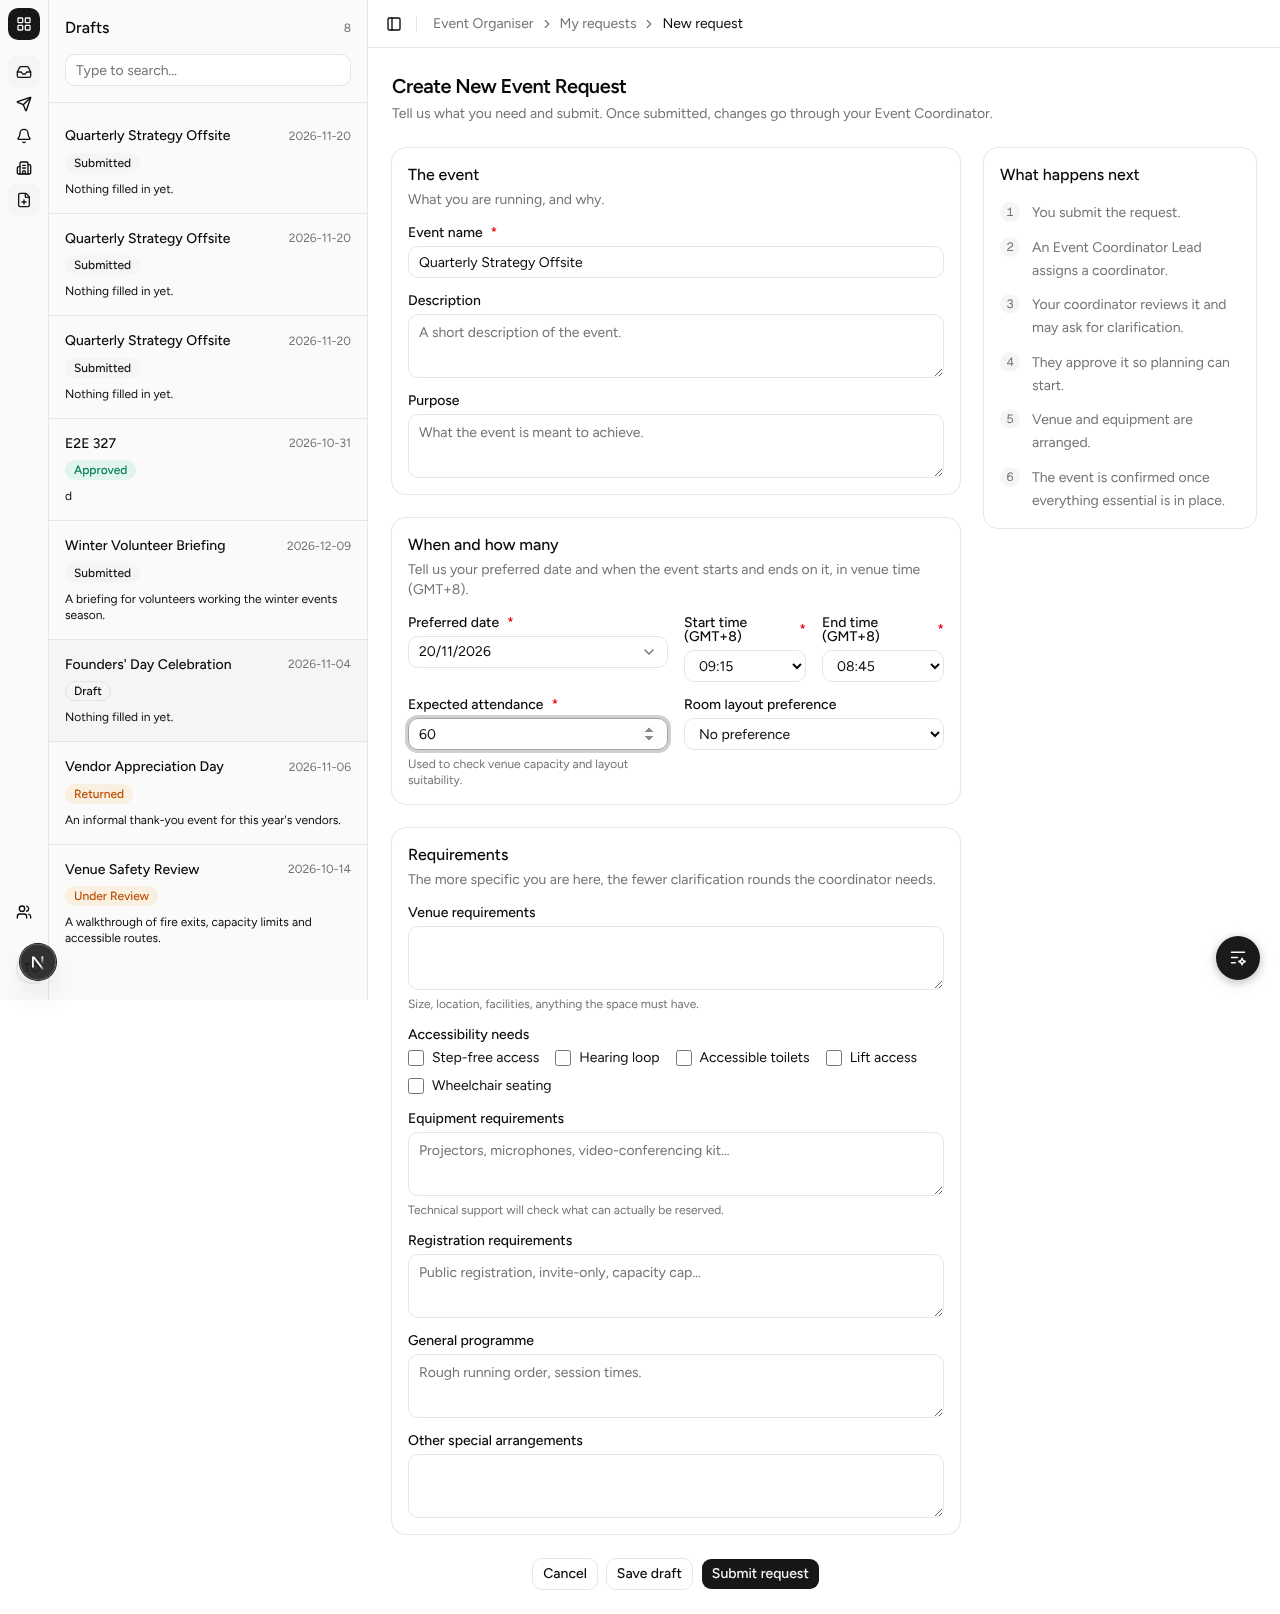
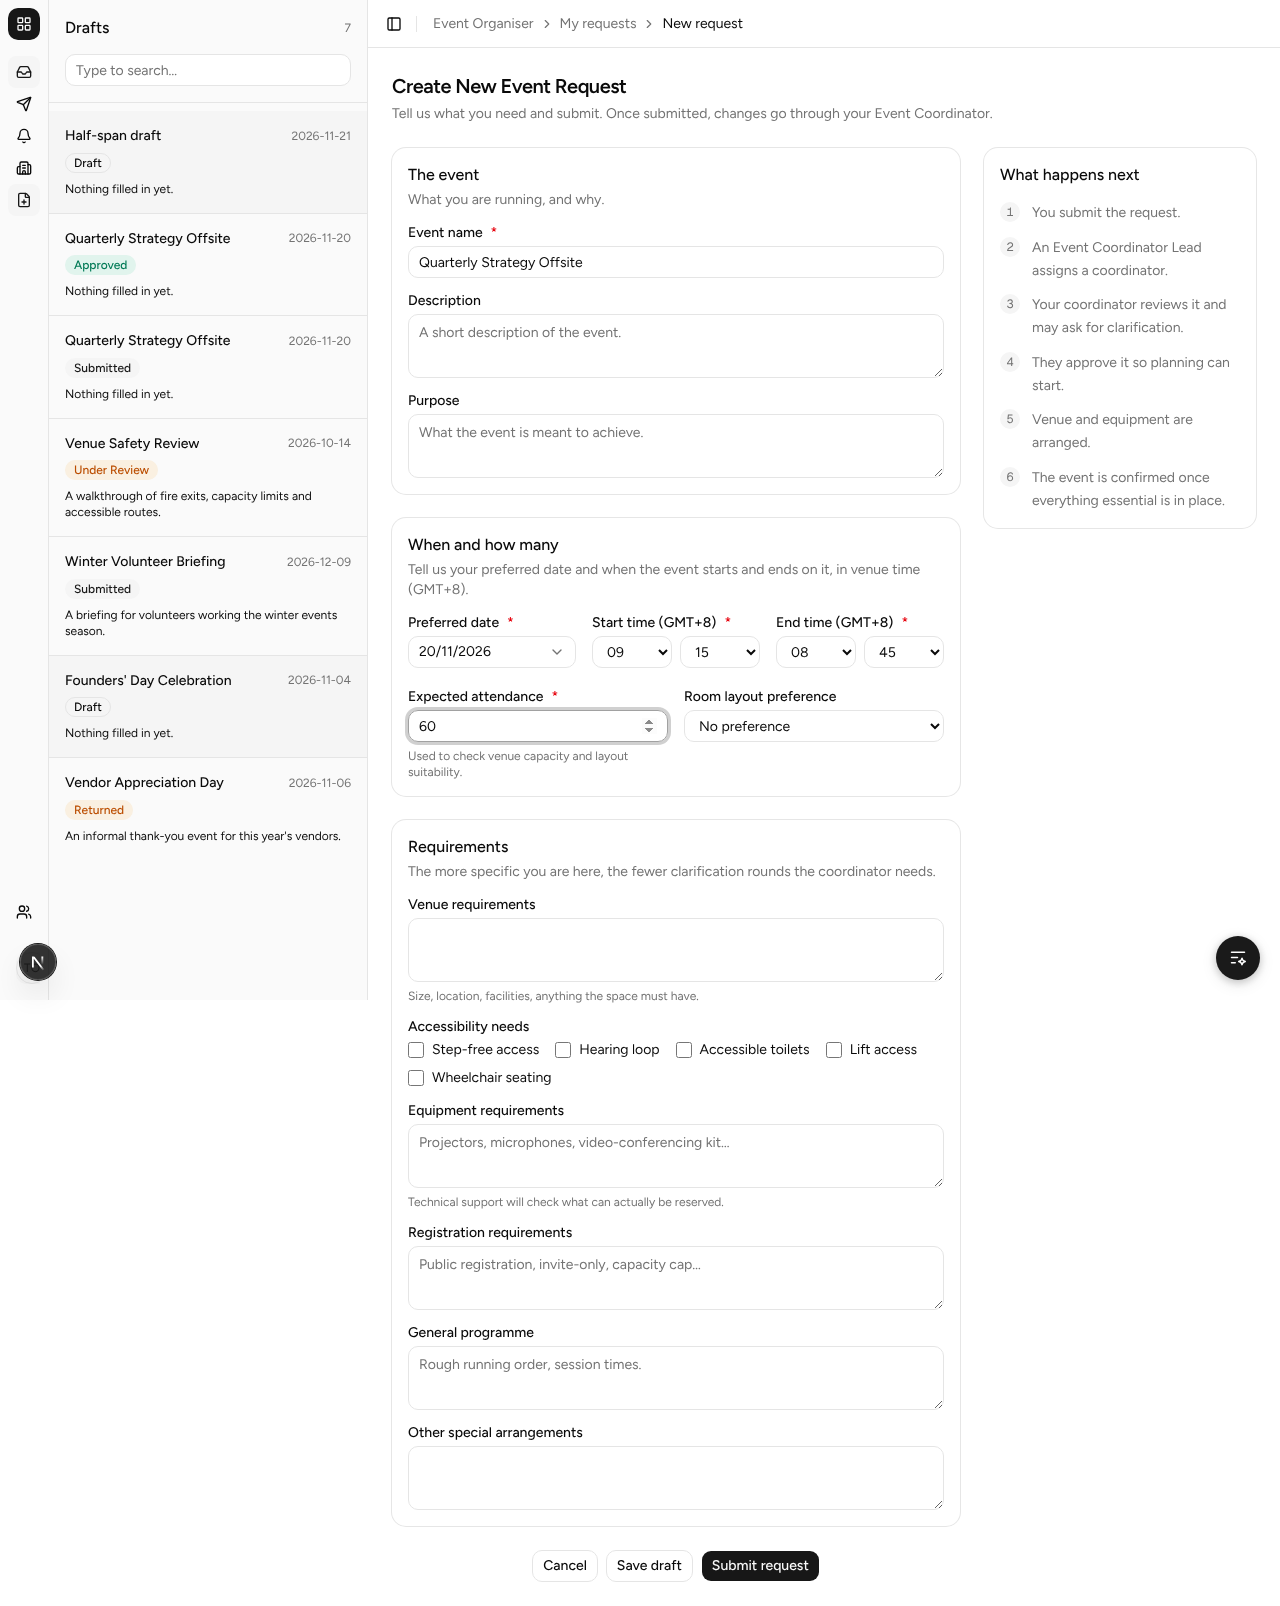
docs(testing): update request time cases for the shared picker (SPM-327)
Cases 001-003 now read preferred_time and pick times by hour and
minute; the screenshots show the new pickers.

Claude-Session: https://claude.ai/code/session_01C1scxCW5HA3cpeWozpF5Mi

diff --git a/docs/testing/REQUEST_TIMES_MANUAL_TESTS.md b/docs/testing/REQUEST_TIMES_MANUAL_TESTS.md
@@ -8,6 +8,10 @@ start and end time on the 15-minute grid, not AM, PM or Night slots, after
 
 - A request's preferred time is one span on its preferred date, stored as the
   15-minute slots it covers, `event_request_slot.slot_code` `'0'`–`'95'`.
+  Submit and save take it as `HH:MM`, and `preferred_time(event_request)`
+  returns it as `{start, end}`, as the venue catalogue does for opening hours
+  (SPM-320).
+- Times are picked with the venue form's hour-and-minute picker.
 - Times are entered in venue time and labelled GMT+8. Request pages show them
   in the **viewer's timezone**, named outside Singapore.
 - Approving a request gives the new event the requested times
@@ -53,6 +57,7 @@ AM; AM and PM; AM and Night (a Draft); Night; none (a Draft); AM, PM and Night.
    ```sql
    select event_request_id, count(*), min(slot_code::int), max(slot_code::int)
    from event_request_slot group by 1 order by 1;
+   select event_request_id, preferred_time(r) from event_request r order by 1;
    ```
 3. Insert a `'PM'` row into `event_request_slot`.
 
@@ -61,7 +66,9 @@ AM; AM and PM; AM and Night (a Draft); Night; none (a Draft); AM, PM and Night.
   `'76'`–`'95'` (19:00–24:00).
 - AM and PM give one span of 44 rows, `'28'`–`'71'` (07:00–18:00). AM and
   Night, and all three, give 68 rows, `'28'`–`'95'` (07:00–24:00).
-- The request with no slots still has none. No request is lost.
+- `preferred_time` reads each back as one span, e.g. `{"start": "07:00",
+  "end": "18:00"}` for AM and PM. The request with no slots still has none
+  and reads null. No request is lost.
 - The migration prints a notice for each request whose range widened, e.g.
   `Event request 902 on 2026-12-02 widened to 07:00-18:00`.
 - The `'PM'` insert is refused by `event_request_slot_fifteen_minute_chk`.
@@ -77,16 +84,18 @@ as `organiser@test.com`.
 
 **Steps:**
 1. Open `/staff/requester/new`.
-2. Enter a name, pick a date next month, start 09:15, end 17:45, attendance 60.
+2. Enter a name, pick a date next month, start 09 : 15, end 17 : 45,
+   attendance 60.
 3. Submit.
 
 **Expected Result:**
-- The "When and how many" card offers "Start time (GMT+8)" from 00:00 to 23:45
-  and "End time (GMT+8)" from 00:15 to 24:00, every 15 minutes. No AM, PM or
-  Night anywhere on the form.
+- The "When and how many" card has "Start time (GMT+8)" and "End time
+  (GMT+8)", each an hour (00–23; the end also offers 24, as 24:00) and a
+  minute (00, 15, 30, 45). No AM, PM or Night anywhere on the form.
 - The acknowledgement reads "Preferred date & time: <dd/mm/yyyy>, 9:15 am –
   5:45 pm".
-- `preferred_slots` for the request is `'37'`–`'70'`.
+- `preferred_time` for the request is `{"start": "09:15", "end": "17:45"}`,
+  stored as slots `'37'`–`'70'`.
 
 **Status:** [x] Pass [ ] Fail
 
@@ -103,7 +112,8 @@ as `organiser@test.com`.
 **Expected Result:**
 - The banner reads "Check the highlighted fields." and the End time field
   reads "The end time must be after the start time."
-- Start 09:15 and end 08:45 are still selected, so only the end needs fixing.
+- Start 09:15 and end 08:45 are still shown in the pickers, so only the end
+  needs fixing.
 
 **Status:** [x] Pass [ ] Fail
 
